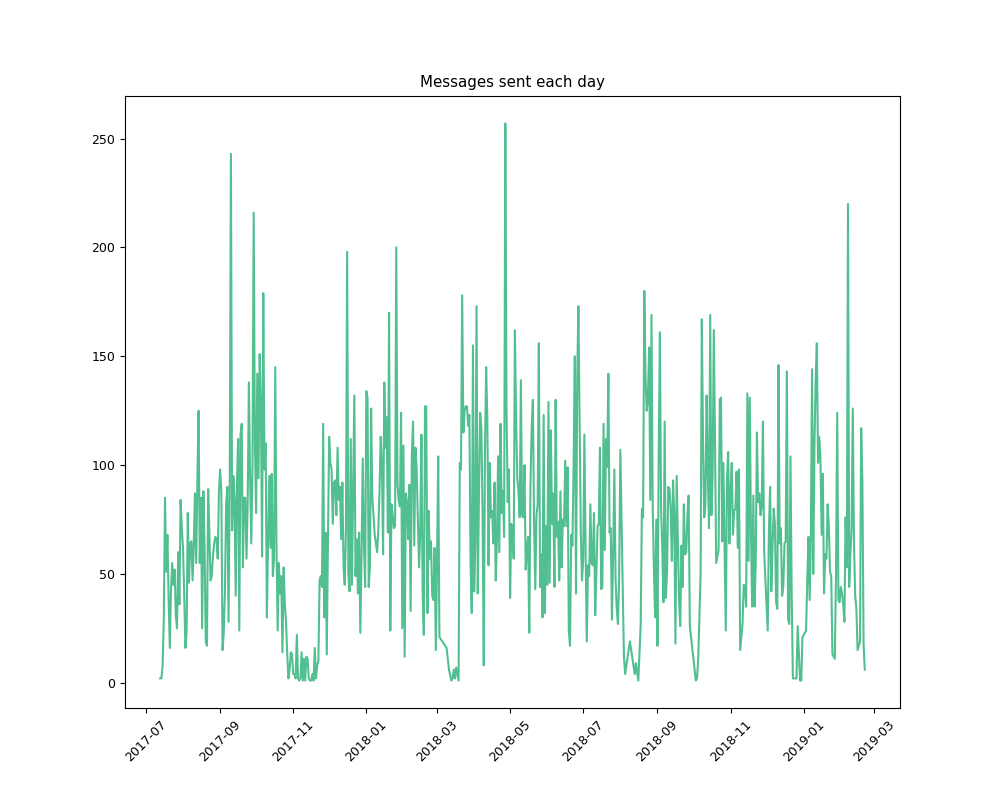
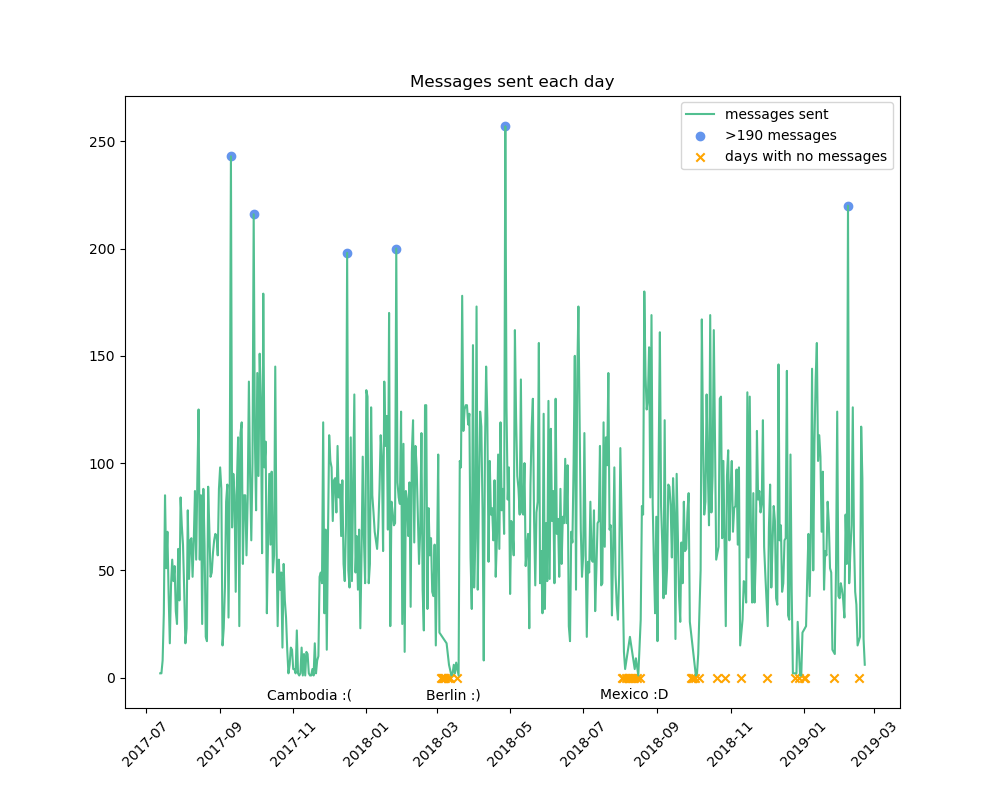
1.0.4? deeper analysis on days graph

diff --git a/Lea.html b/Lea.html
@@ -64,15 +64,16 @@
     <div class="row" id="Data">
       <div class="col-md-1"></div>
       <div class="col-md-10">
-        <h2 class="h2">The Data</h2>
+        <h2 class="h2">About the Data</h2>
 
-        <p>I analyzed all the WhatsApp messages we have sent from the day we started talking through the app, until a few days before our anniversary. That is, from 13.07.2017 to 21.02.2019. The messages include a lot of cheesy notes, good morning words and lots of love. These are some of the most important facts I found:  </p>
+        <p>I analyzed all the WhatsApp messages we have sent from the day we started talking through the app, until a few days before our anniversary, that is, from 13.07.2017 to 21.02.2019. The messages include a lot of cheesy notes, good morning words and lots of love. These are some of the most important facts I found:  </p>
 
         <ul>
           <li>In total, we have sent 38,996 messages (up to the date of the analysis).</li>
+          <li>Since we met, we have messaged for 556 days.</li>
           <li>On average, we send 70.02 messages every day.</li>
           <li>The day of the week that we send the most messages is Tuesday.</li>
-          <li>The day we sent the most messages is 27.04.2018, with 257 messages.</li>
+          <li>The day we sent the most messages was 27.04.2018, with 257 messages.</li>
           <li>We have written the word "honey" 1004 times.</li>
           <li>We have written the word "amo" 434 times.</li>
           <li>We have written the word "liebe" 217 times.</li>
@@ -105,7 +106,9 @@
 
         <img src="lea_img/msg_each_day.png" class="img-fluid" alt="Messages each day">
 
-        <p>We can see that we have had busy conversations, always with something interesting to talk about :) </p>
+        <p>Since we know each other, we only haven't talked/messaged for 33 days. This is an interesting number, because all of them appear after we got into the relationship. So when these days happen it means that we are actually together (so no need of WhatsApp). Still, we have been physically together more days than those in the graph. You can see that they appear much more often now that I'm here in Germany. Two big clusters of no-message days can also be seen when I came to Berlin, and during our vacations in Mexico. </p>
+
+        <p>There are 6 days in which we have sent more than 190 messages, the closest one to date on 07.02.2019 with 220 messages, and the biggest one on 27.04.2018 with 257! </p>
 
         <p>Then, I wanted to see if there was a pattern on which day of the week we message the most:</p>
 
@@ -116,7 +119,7 @@
         <p>Finally, at what time do we like to message the most?</p>
 
         <img src="lea_img/msg_each_hour.png" class="img-fluid" alt="Messages each hour">
-        <p> The times are all in German time zone. We prefer to talk more on the afternoons. I think this also holds when I was in Mexico, as you had to wait for me to wake up. Still, it is visible that our inactive times are from 5h to 9h.</p>
+        <p> The times are all in German time zone. We prefer to talk more on the afternoons. I think this also holds when I was in Mexico, as you had to wait for me to wake up. We can see that our busiest times are around 19h to 22h and our inactive times from 5h to 9h.</p>
 
       </div>
       <div class="col-md-1"></div>
@@ -135,7 +138,7 @@
 
         <p>Other honorable mentions are "honey", "home", "sleep", ":/", "wish", "miss", "te", "bed", "best", "everything", "amo", "thinking", "night", and ":0" which I think we really use a lot (except maybe the last one). </p> 
 
-        <p>You could think that there is a lot more information that we can get out of the data, but this is the one that I considered the most important. I created this document to emphasize that communication has always been present in our relationship. From the very beginning, we enjoyed each other's company and we haven't stopped.</p>
+        <p>You could think that there is a lot more information that we can get out of the data, but this is the one that I considered the most important. I created this document to emphasize that communication has always been present in our relationship. From the very beginning, we enjoyed each other's company and we haven't stopped. Together, we are really reducing the distance between each other. There will realy be a day in which we no longer have to write a good-morning text, or send a good-night voice message.</p>
 
         <p>I appreciate even the little messages that you send me. You are a very important part of my life, and I love hearing (or reading) what happens in your life, your worries and your joys. Today we rely on WhatsApp, but I promise that in the not-so-distant future we will not use it as much, because we will be much much closer.</p>
 
